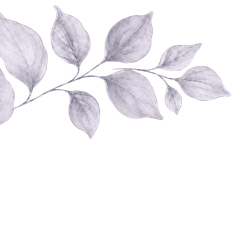
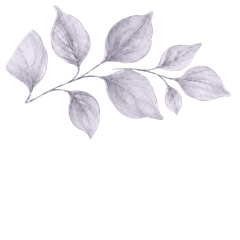
fix: restore complete botanical leaf contour for envelope corner sprigs with natural tapered apex

Changed region(s): [[0.0, 0.0583, 0.1458, 0.525], [0.0875, 0.4083, 0.1167, 0.4375]]

diff --git a/BE_Wedding_Web/uploads/templates/test-quyen-sua/index.html b/BE_Wedding_Web/uploads/templates/test-quyen-sua/index.html
@@ -109,8 +109,8 @@
           </div>
 
           <!-- Botanical Corner Flourishes on Envelope (Matching Reference Panel 4 & 5) -->
-          <img src="assets/images/intro-env-sprig-bl.png?v=7.2" alt="" class="envelope-corner-decor envelope-decor-bl" aria-hidden="true">
-          <img src="assets/images/intro-env-sprig-tr.png?v=7.2" alt="" class="envelope-corner-decor envelope-decor-tr" aria-hidden="true">
+          <img src="assets/images/intro-env-sprig-bl.png?v=8.0" alt="" class="envelope-corner-decor envelope-decor-bl" aria-hidden="true">
+          <img src="assets/images/intro-env-sprig-tr.png?v=8.0" alt="" class="envelope-corner-decor envelope-decor-tr" aria-hidden="true">
 
           <!-- Envelope Top Flap (Flips open in 3D, matching Panel 5 & 6) -->
           <div class="envelope-top-flap" id="envelope-top-flap">
@@ -925,7 +925,7 @@
     </button>
 
     <!-- Corner Hydrangea Flourish -->
-    <img src="assets/images/intro-env-sprig-tr.png?v=7.2" alt="" class="modal-corner-flourish" aria-hidden="true">
+    <img src="assets/images/intro-env-sprig-tr.png?v=8.0" alt="" class="modal-corner-flourish" aria-hidden="true">
 
     <div class="gift-modal-body text-center">
       <span class="modal-eyebrow">HỘP MỪNG CƯỚI</span>

diff --git a/BE_Wedding_Web/uploads/templates/theme_hydrangea_editorial/index.html b/BE_Wedding_Web/uploads/templates/theme_hydrangea_editorial/index.html
@@ -117,8 +117,8 @@
           </div>
 
           <!-- Botanical Corner Flourishes on Envelope (Matching Reference Panel 4 & 5) -->
-          <img src="assets/images/intro-env-sprig-bl.png?v=7.2" alt="" class="envelope-corner-decor envelope-decor-bl" aria-hidden="true">
-          <img src="assets/images/intro-env-sprig-tr.png?v=7.2" alt="" class="envelope-corner-decor envelope-decor-tr" aria-hidden="true">
+          <img src="assets/images/intro-env-sprig-bl.png?v=8.0" alt="" class="envelope-corner-decor envelope-decor-bl" aria-hidden="true">
+          <img src="assets/images/intro-env-sprig-tr.png?v=8.0" alt="" class="envelope-corner-decor envelope-decor-tr" aria-hidden="true">
 
           <!-- Envelope Top Flap (Flips open in 3D, matching Panel 5 & 6) -->
           <div class="envelope-top-flap" id="envelope-top-flap">
@@ -932,7 +932,7 @@
     </button>
 
     <!-- Corner Hydrangea Flourish -->
-    <img src="assets/images/intro-env-sprig-tr.png?v=7.2" alt="" class="modal-corner-flourish" aria-hidden="true">
+    <img src="assets/images/intro-env-sprig-tr.png?v=8.0" alt="" class="modal-corner-flourish" aria-hidden="true">
 
     <div class="gift-modal-body text-center">
       <span class="modal-eyebrow">HỘP MỪNG CƯỚI</span>

diff --git a/BE_Wedding_Web/uploads/templates/_preview/00b8d38b0085436a73ed6d7279252967/index.html b/BE_Wedding_Web/uploads/templates/_preview/00b8d38b0085436a73ed6d7279252967/index.html
@@ -97,8 +97,8 @@
           </div>
 
           <!-- Botanical Corner Flourishes on Envelope (Matching Reference Panel 4 & 5) -->
-          <img src="assets/images/intro-env-sprig-bl.png?v=7.2" alt="" class="envelope-corner-decor envelope-decor-bl" aria-hidden="true">
-          <img src="assets/images/intro-env-sprig-tr.png?v=7.2" alt="" class="envelope-corner-decor envelope-decor-tr" aria-hidden="true">
+          <img src="assets/images/intro-env-sprig-bl.png?v=8.0" alt="" class="envelope-corner-decor envelope-decor-bl" aria-hidden="true">
+          <img src="assets/images/intro-env-sprig-tr.png?v=8.0" alt="" class="envelope-corner-decor envelope-decor-tr" aria-hidden="true">
 
           <!-- Envelope Top Flap (Flips open in 3D, matching Panel 5 & 6) -->
           <div class="envelope-top-flap" id="envelope-top-flap">
@@ -793,7 +793,7 @@
     </button>
 
     <!-- Corner Hydrangea Flourish -->
-    <img src="assets/images/intro-env-sprig-tr.png?v=7.2" alt="" class="modal-corner-flourish" aria-hidden="true">
+    <img src="assets/images/intro-env-sprig-tr.png?v=8.0" alt="" class="modal-corner-flourish" aria-hidden="true">
 
     <div class="gift-modal-body text-center">
       <span class="modal-eyebrow">HỘP MỪNG CƯỚI</span>

diff --git a/BE_Wedding_Web/uploads/templates/_preview/c480920570cec18339a0acfff9f74e1d/index.html b/BE_Wedding_Web/uploads/templates/_preview/c480920570cec18339a0acfff9f74e1d/index.html
@@ -97,8 +97,8 @@
           </div>
 
           <!-- Botanical Corner Flourishes on Envelope (Matching Reference Panel 4 & 5) -->
-          <img src="assets/images/intro-env-sprig-bl.png?v=7.2" alt="" class="envelope-corner-decor envelope-decor-bl" aria-hidden="true">
-          <img src="assets/images/intro-env-sprig-tr.png?v=7.2" alt="" class="envelope-corner-decor envelope-decor-tr" aria-hidden="true">
+          <img src="assets/images/intro-env-sprig-bl.png?v=8.0" alt="" class="envelope-corner-decor envelope-decor-bl" aria-hidden="true">
+          <img src="assets/images/intro-env-sprig-tr.png?v=8.0" alt="" class="envelope-corner-decor envelope-decor-tr" aria-hidden="true">
 
           <!-- Envelope Top Flap (Flips open in 3D, matching Panel 5 & 6) -->
           <div class="envelope-top-flap" id="envelope-top-flap">
@@ -793,7 +793,7 @@
     </button>
 
     <!-- Corner Hydrangea Flourish -->
-    <img src="assets/images/intro-env-sprig-tr.png?v=7.2" alt="" class="modal-corner-flourish" aria-hidden="true">
+    <img src="assets/images/intro-env-sprig-tr.png?v=8.0" alt="" class="modal-corner-flourish" aria-hidden="true">
 
     <div class="gift-modal-body text-center">
       <span class="modal-eyebrow">HỘP MỪNG CƯỚI</span>
